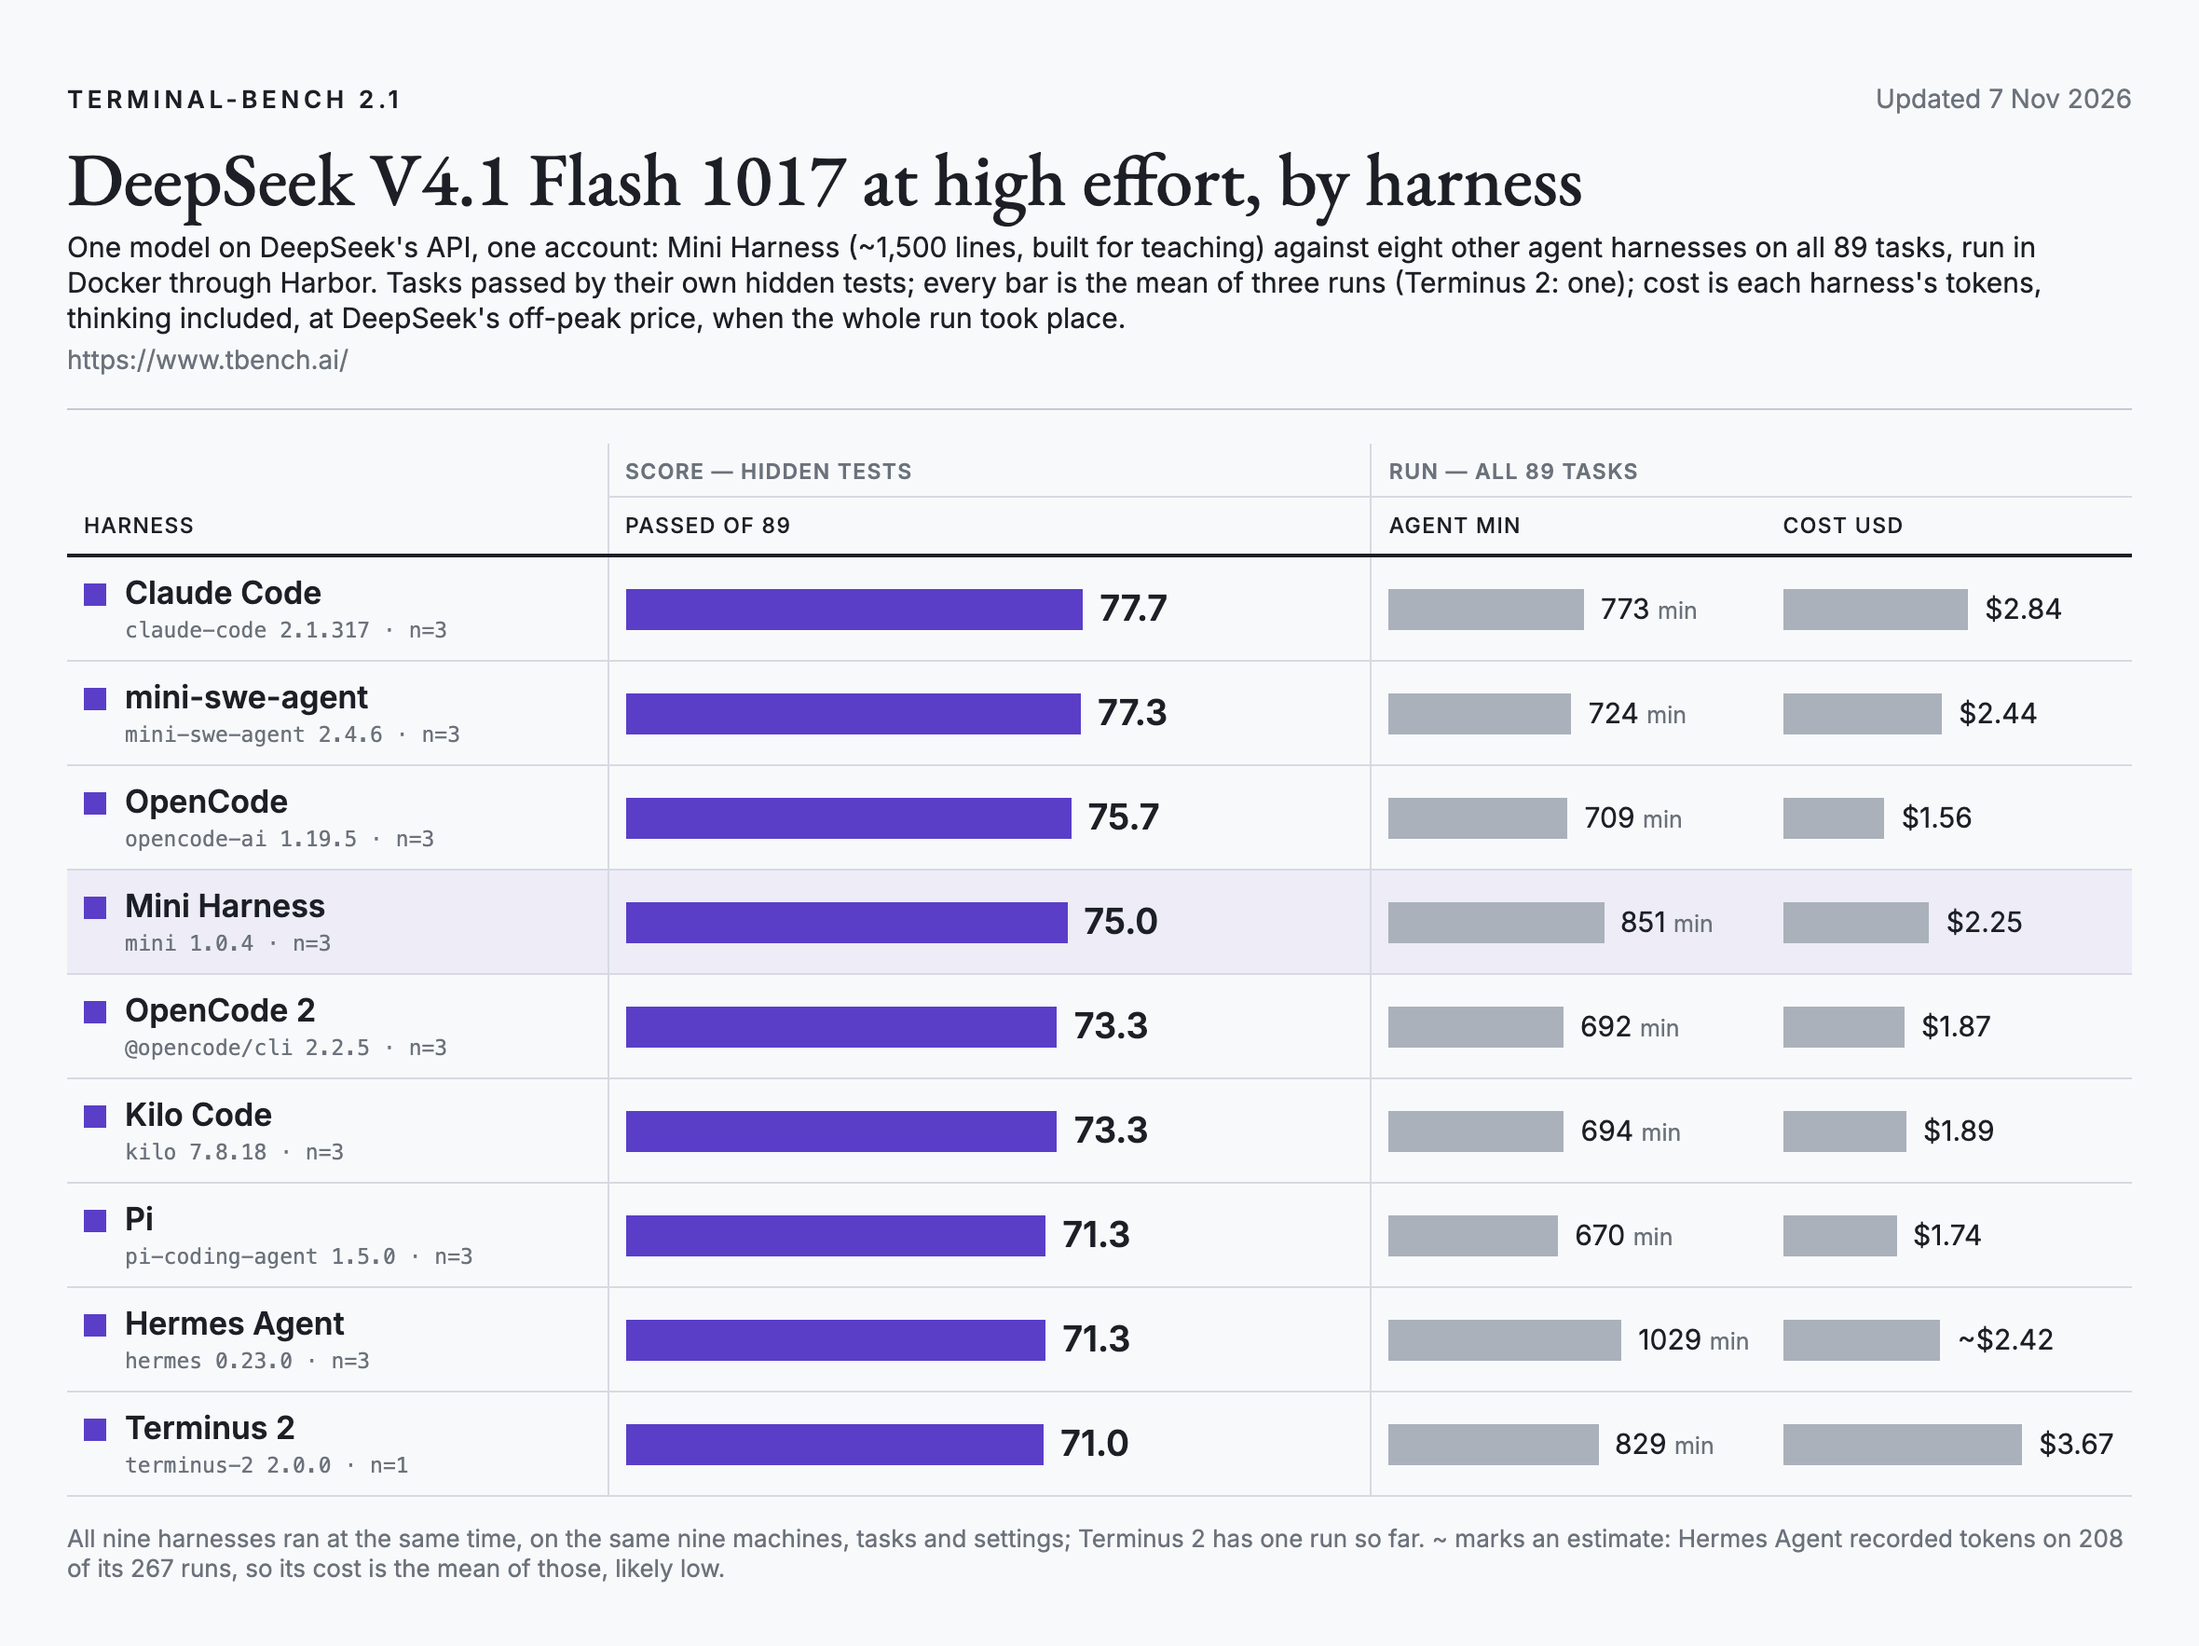
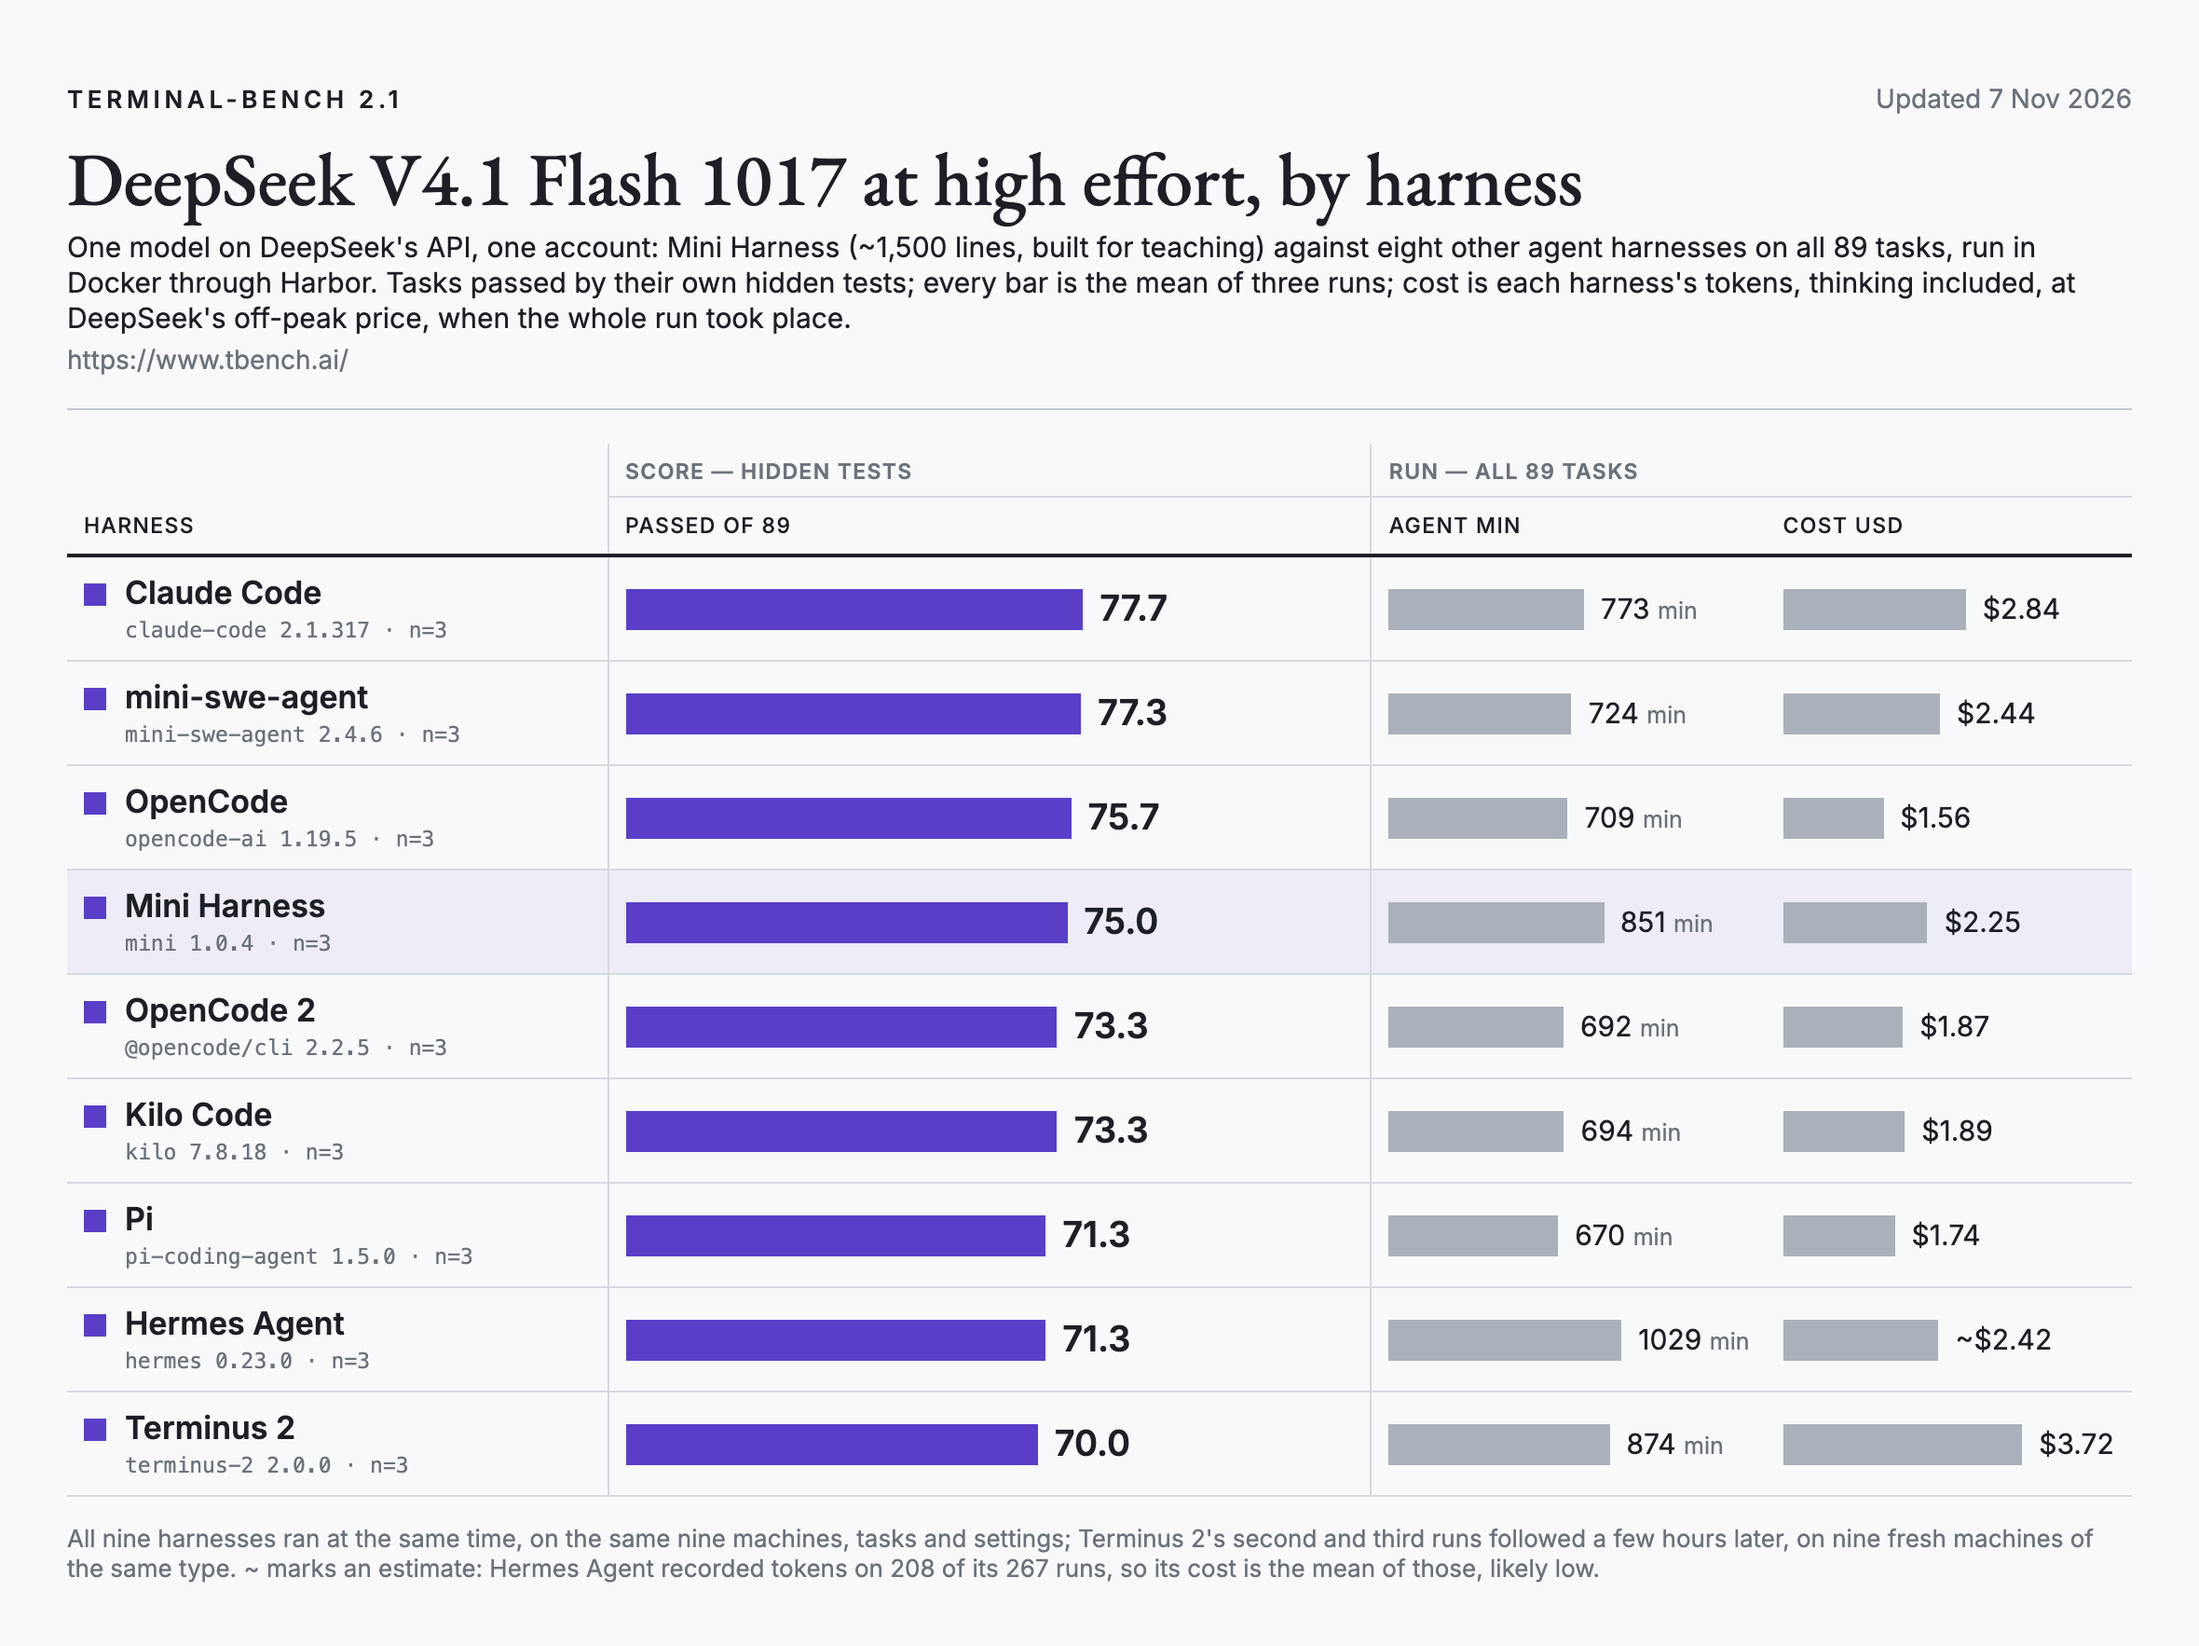
Terminal-Bench 2.1 on DeepSeek: Terminus 2 at three runs (70.0)
Claude-Session: https://claude.ai/code/session_01Q1TYu79E2a1Suw3BNFkkac

diff --git a/benchmarks/terminal-bench-2.1--deepseek-v4.1-flash-1017/README.md b/benchmarks/terminal-bench-2.1--deepseek-v4.1-flash-1017/README.md
@@ -1,6 +1,6 @@
 # Terminal-Bench 2.1 · DeepSeek V4.1 Flash 1017
 
-All 89 tasks of [Terminal-Bench 2.1](https://www.tbench.ai/), three runs per harness (Terminus 2: one so far), DeepSeek V4.1 Flash 1017 at high effort on DeepSeek's own API, one account.
+All 89 tasks of [Terminal-Bench 2.1](https://www.tbench.ai/), three runs per harness, DeepSeek V4.1 Flash 1017 at high effort on DeepSeek's own API, one account.
 
 <picture>
   <source media="(prefers-color-scheme: dark)" srcset="../../docs/img/terminal-bench-2.1-deepseek-dark.png">
@@ -17,15 +17,15 @@ All 89 tasks of [Terminal-Bench 2.1](https://www.tbench.ai/), three runs per har
 | Kilo Code | 7.8.18 | 71 | 73 | 76 | **73.3** | 694 | $1.89 |
 | Pi | 1.5.0 | 72 | 72 | 70 | **71.3** | 670 | $1.74 |
 | Hermes Agent | 0.23.0 | 76 | 67 | 71 | **71.3** | 1029 | ~$2.42 |
-| Terminus 2 | 2.0.0 | 71 |  |  | **71.0** | 829 | $3.67 |
+| Terminus 2 | 2.0.0 | 71 | 68 | 71 | **70.0** | 874 | $3.72 |
 
 ## Setup
 
 - Runner: [Harbor](https://github.com/laude-institute/harbor) 0.25.0, dataset `terminal-bench/terminal-bench-2-1`, Docker, each task's own time limit and resources.
-- Machines: nine DigitalOcean droplets (8 vCPU, 16 GB), six runs at a time on each. All nine harnesses ran side by side, and every harness ran the same task list on each machine.
+- Machines: nine DigitalOcean droplets (8 vCPU, 16 GB), six runs at a time on each. All nine harnesses ran side by side, and every harness ran the same task list on each machine. Terminus 2's second and third runs followed on 7 Nov, alone on nine fresh machines of the same type. A first try at them was dropped whole: DeepSeek's API returned server errors for 33 minutes and ended 88 of its 178 runs, while no other harness's runs met a single one.
 - When: 6–7 Nov 2026, all of it in DeepSeek's off-peak hours.
 - Effort: `--effort high`; OpenCode as `variant=high`; OpenCode 2 as the model's `#high` variant (through a small adapter on Harbor's OpenCode one); Hermes Agent from its config file. Claude Code runs on DeepSeek's Anthropic-compatible endpoint, with every model slot set to the same model.
-- Cost: every harness's tokens at DeepSeek's off-peak price ($0.15 per million input tokens, $0.003 cached, $0.60 output), thinking included (OpenCode, OpenCode 2 and Kilo Code log it apart from their output tokens, so it is added back); Mini Harness reports its own cost at the same prices. DeepSeek billed about $57.70 for the run; the priced runs add up to $52.98, and 65 runs recorded no tokens (Hermes Agent 59, marked ~; OpenCode 2 3; Pi 3).
+- Cost: every harness's tokens at DeepSeek's off-peak price ($0.15 per million input tokens, $0.003 cached, $0.60 output), thinking included (OpenCode, OpenCode 2 and Kilo Code log it apart from their output tokens, so it is added back); Mini Harness reports its own cost at the same prices. DeepSeek billed about $65.25 for the run; the priced runs add up to $60.47, and 65 runs recorded no tokens (Hermes Agent 59, marked ~; OpenCode 2 3; Pi 3).
 - Harnesses: Claude Code 2.1.317, mini-swe-agent 2.4.6, OpenCode 1.19.5, Mini Harness 1.0.4, OpenCode 2 2.2.5, Kilo Code 7.8.18, Pi 1.5.0, Hermes Agent 0.23.0, Terminus 2 2.0.0.
 
 ## Files

diff --git a/README.md b/README.md
@@ -56,11 +56,11 @@ As of November 2026. Pi is built to be extended; mini is built to be read.
 
 Most gaps are within run-to-run noise: each harness's score moved by 2 to 9 tasks between its own runs. Kilo Code, Claude Code, Hermes Agent and Pi ran together; Mini Harness and then the other four ran right after, with the same tasks, settings and machine size.
 
-The same benchmark on DeepSeek V4.1 Flash 1017 at high effort, with all nine harnesses running side by side: [mini 1.0.4](https://github.com/phuryn/mini-harness/tree/v1.0.4) passed 75.0 on average, fourth of nine, behind Claude Code (77.7), mini-swe-agent (77.3) and OpenCode (75.7), for $2.25 a run. Terminus 2 has one run so far.
+The same benchmark on DeepSeek V4.1 Flash 1017 at high effort, with all nine harnesses running side by side: [mini 1.0.4](https://github.com/phuryn/mini-harness/tree/v1.0.4) passed 75.0 on average, fourth of nine, behind Claude Code (77.7), mini-swe-agent (77.3) and OpenCode (75.7), for $2.25 a run.
 
 <picture>
   <source media="(prefers-color-scheme: dark)" srcset="docs/img/terminal-bench-2.1-deepseek-dark.png">
-  <img src="docs/img/terminal-bench-2.1-deepseek-light.png" alt="Terminal-Bench 2.1, DeepSeek V4.1 Flash 1017 at high effort, mean tasks passed of 89 over three runs (Terminus 2: one), with agent minutes and cost per run: Claude Code 77.7 (773 min, $2.84), mini-swe-agent 77.3 (724 min, $2.44), OpenCode 75.7 (709 min, $1.56), Mini Harness 75.0 (851 min, $2.25), OpenCode 2 73.3 (692 min, $1.87), Kilo Code 73.3 (694 min, $1.89), Pi 71.3 (670 min, $1.74), Hermes Agent 71.3 (1029 min, ~$2.42), Terminus 2 71.0 (829 min, $3.67).">
+  <img src="docs/img/terminal-bench-2.1-deepseek-light.png" alt="Terminal-Bench 2.1, DeepSeek V4.1 Flash 1017 at high effort, mean tasks passed of 89 over three runs, with agent minutes and cost per run: Claude Code 77.7 (773 min, $2.84), mini-swe-agent 77.3 (724 min, $2.44), OpenCode 75.7 (709 min, $1.56), Mini Harness 75.0 (851 min, $2.25), OpenCode 2 73.3 (692 min, $1.87), Kilo Code 73.3 (694 min, $1.89), Pi 71.3 (670 min, $1.74), Hermes Agent 71.3 (1029 min, ~$2.42), Terminus 2 70.0 (874 min, $3.72).">
 </picture>
 
 Here too most gaps are noise: a harness's score moved by 1 to 9 tasks between its own runs. Cost is each harness's tokens at DeepSeek's off-peak price, thinking included.
